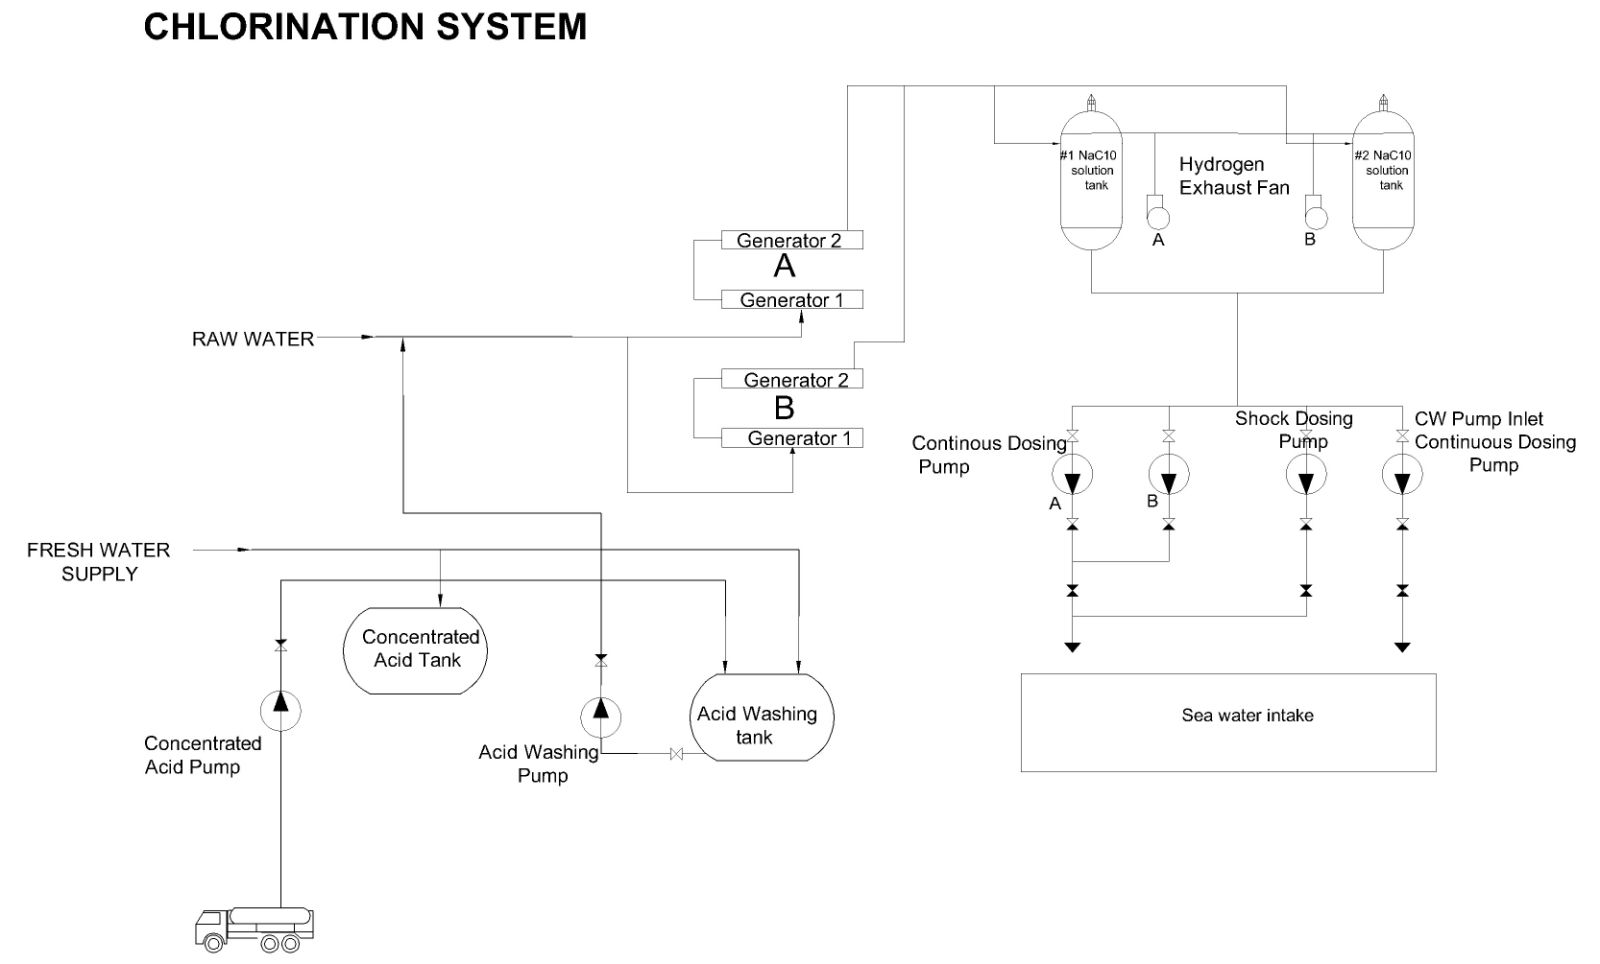
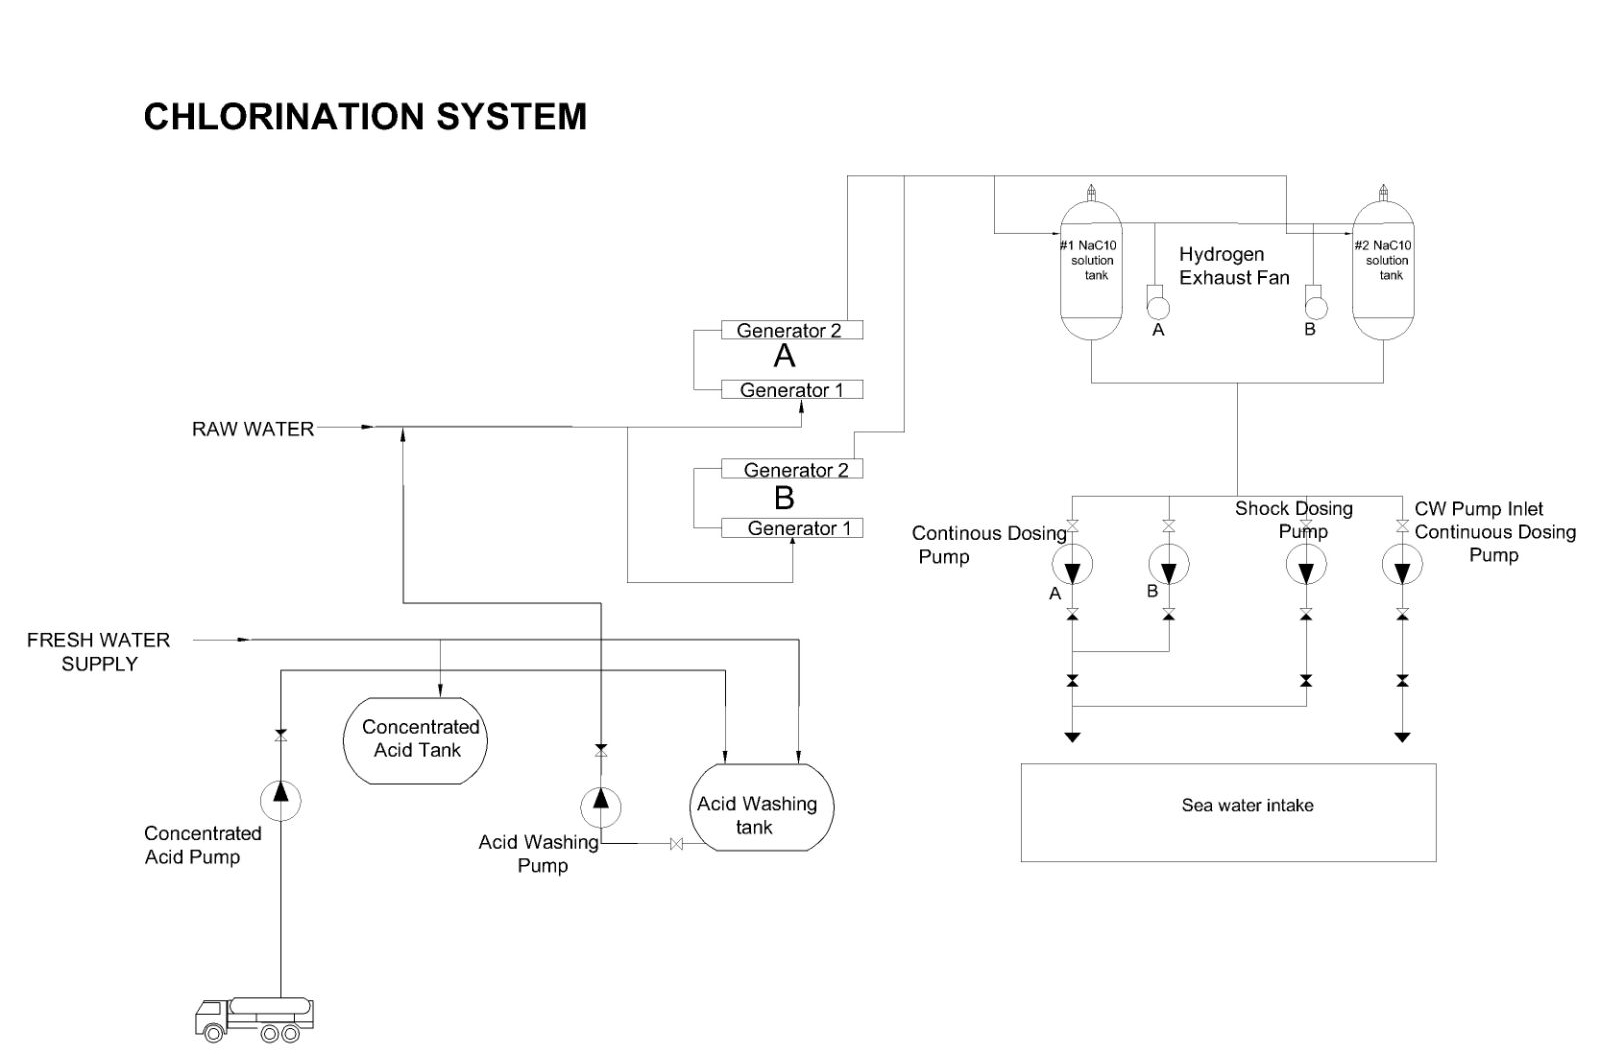
put text on chlorination and switchyard

diff --git a/javascript/config.js b/javascript/config.js
@@ -85,22 +85,22 @@ const positionMaps = {
     "SA Preheaeter": { x: 700, y: 407 },
     "PA Preheater": { x: 700, y: 453 },
     "Cyclone Separator A": { x: 523, y: 200 },
-    "Cyclone Separator B": { x: 523 , y: 230 },
-    "Daily Limestone": { x: 591 , y: 310 },
-    "Recycle Fan A": { x: 523 , y: 485 },
-    "Recycle Fan B": { x: 523 , y: 553 },
-    "Burner": { x: 460 , y: 520 },
-    "Circulating Fluidized Bed Boiler": { x: 400 , y: 350 },
-    "Coal Bunker": { x: 167 , y: 190 },
-    "Coal Feeder A": { x: 77 , y: 237 },
-    "Coal Feeder B": { x: 167 , y: 237 },
-    "Coal Feeder C": { x: 257 , y: 237 },
-    "Biomass Bunker": { x: 140 , y: 350 },
-    "Biomass Feeder A": { x: 85 , y: 400 },
-    "Biomass Feeder B": { x: 185 , y: 400 },
-    "LFO Tank": { x: 62 , y: 580 },
-    "LFO Pump A": { x: 210 , y: 520 },
-    "LFO Pump B": { x: 210 , y: 582 },
+    "Cyclone Separator B": { x: 523, y: 230 },
+    "Daily Limestone": { x: 591, y: 310 },
+    "Recycle Fan A": { x: 523, y: 485 },
+    "Recycle Fan B": { x: 523, y: 553 },
+    "Burner": { x: 460, y: 520 },
+    "Circulating Fluidized Bed Boiler": { x: 400, y: 350 },
+    "Coal Bunker": { x: 167, y: 190 },
+    "Coal Feeder A": { x: 77, y: 237 },
+    "Coal Feeder B": { x: 167, y: 237 },
+    "Coal Feeder C": { x: 257, y: 237 },
+    "Biomass Bunker": { x: 140, y: 350 },
+    "Biomass Feeder A": { x: 85, y: 400 },
+    "Biomass Feeder B": { x: 185, y: 400 },
+    "LFO Tank": { x: 62, y: 580 },
+    "LFO Pump A": { x: 210, y: 520 },
+    "LFO Pump B": { x: 210, y: 582 },
   },
   wts: {
     "Clarifier": { x: 150, y: 135 },
@@ -164,53 +164,53 @@ const positionMaps = {
   },
   sccws: {
     "Condenser": { x: 488, y: 90 },
-    "Rubber Ball Distributor": { x:547, y: 181 },
-    "Expansion Tank": { x:780, y: 175 },
-    "Secondary Filter A": { x:205, y: 305 },
-    "Secondary Filter B": { x:310, y: 305 },
-    "Heat Exchanger A": { x:430, y: 307 },
-    "Heat Exchanger B": { x:536, y: 307 },
-    "Close Cooling Water Pump A": { x:620, y: 307 },
-    "Close Cooling Water Pump B": { x:780, y: 307 },
-    "Circulating Water Pump A": { x:210, y: 440 },
-    "Circulating Water Pump B": { x:286, y: 440 },
-    "Circulating Water Pump C": { x:365, y: 440 },
-    "Cooling Pump A": { x:452, y: 397 },
-    "Cooling Pump B": { x:522, y: 397 },
-    "Cooling Pond": { x:735, y: 490 },
-    "Seawater Intake Pond": { x:235, y: 485 },
-    "Rotating Screen A": { x:270, y: 580 },
-    "Rotating Screen B": { x:465, y: 580 },
-    "Intake Cone": { x:365, y: 715 },
-    "Outfall Duct Valve": { x:765, y: 705 },
+    "Rubber Ball Distributor": { x: 547, y: 181 },
+    "Expansion Tank": { x: 780, y: 175 },
+    "Secondary Filter A": { x: 205, y: 305 },
+    "Secondary Filter B": { x: 310, y: 305 },
+    "Heat Exchanger A": { x: 430, y: 307 },
+    "Heat Exchanger B": { x: 536, y: 307 },
+    "Close Cooling Water Pump A": { x: 620, y: 307 },
+    "Close Cooling Water Pump B": { x: 780, y: 307 },
+    "Circulating Water Pump A": { x: 210, y: 440 },
+    "Circulating Water Pump B": { x: 286, y: 440 },
+    "Circulating Water Pump C": { x: 365, y: 440 },
+    "Cooling Pump A": { x: 452, y: 397 },
+    "Cooling Pump B": { x: 522, y: 397 },
+    "Cooling Pond": { x: 735, y: 490 },
+    "Seawater Intake Pond": { x: 235, y: 485 },
+    "Rotating Screen A": { x: 270, y: 580 },
+    "Rotating Screen B": { x: 465, y: 580 },
+    "Intake Cone": { x: 365, y: 715 },
+    "Outfall Duct Valve": { x: 765, y: 705 },
   },
   cbhs: {
     "Underground Hopper A": { x: 170, y: 125 },
-    "Underground Hopper B": { x:250, y: 125 },
-    "Electromagnetic Iron Separator 3A": { x:285, y: 192 },
-    "Electromagnetic Iron Separator 3B": { x:384, y: 192 },
-    "Metal Detector A": { x:415, y: 145 },
-    "Metal Detector B": { x:451, y: 145 },
-    "Belt Conveyor 1A": { x:560, y: 213 },
-    "Belt Conveyor 1B": { x:560, y: 247 },
-    "Bag Dust Collector 1": { x:225, y: 323 },
-    "Bag Dust Collector 2": { x:363, y: 287 },
-    "Dust Collector 3": { x:225, y: 417 },
-    "Dust Collector 4": { x:363, y: 380 },
-    "Vibrating Coal Screen A": { x:470, y: 333 },
-    "Vibrating Coal Screen B": { x:530, y: 333 },
-    "Coal Crusher A": { x:455, y: 440 },
-    "Coal Crusher B": { x:565, y: 440 },
-    "Belt Conveyor 2A": { x:160, y: 465 },
-    "Belt Conveyor 2B": { x:160, y: 498 },
-    "Belt Conveyor 3A": { x:160, y: 543 },
-    "Belt Conveyor 3B": { x:160, y: 577 },
-    "Biomass Shredder": { x:1000, y: 300 },
-    "Belt Conveyor 1C": { x:670, y: 368 },
-    "Belt Conveyor 2C": { x:670, y: 450 },
-    "Belt Conveyor 3C": { x:670, y: 514 },
-    "Belt Conveyor 4C": { x:670, y: 567 },
-    "Belt Conveyor 4C": { x:985, y: 630 },
+    "Underground Hopper B": { x: 250, y: 125 },
+    "Electromagnetic Iron Separator 3A": { x: 285, y: 192 },
+    "Electromagnetic Iron Separator 3B": { x: 384, y: 192 },
+    "Metal Detector A": { x: 415, y: 145 },
+    "Metal Detector B": { x: 451, y: 145 },
+    "Belt Conveyor 1A": { x: 560, y: 213 },
+    "Belt Conveyor 1B": { x: 560, y: 247 },
+    "Bag Dust Collector 1": { x: 225, y: 323 },
+    "Bag Dust Collector 2": { x: 363, y: 287 },
+    "Dust Collector 3": { x: 225, y: 417 },
+    "Dust Collector 4": { x: 363, y: 380 },
+    "Vibrating Coal Screen A": { x: 470, y: 333 },
+    "Vibrating Coal Screen B": { x: 530, y: 333 },
+    "Coal Crusher A": { x: 455, y: 440 },
+    "Coal Crusher B": { x: 565, y: 440 },
+    "Belt Conveyor 2A": { x: 160, y: 465 },
+    "Belt Conveyor 2B": { x: 160, y: 498 },
+    "Belt Conveyor 3A": { x: 160, y: 543 },
+    "Belt Conveyor 3B": { x: 160, y: 577 },
+    "Biomass Shredder": { x: 1000, y: 300 },
+    "Belt Conveyor 1C": { x: 670, y: 368 },
+    "Belt Conveyor 2C": { x: 670, y: 450 },
+    "Belt Conveyor 3C": { x: 670, y: 514 },
+    "Belt Conveyor 4C": { x: 670, y: 567 },
+    "Belt Conveyor 4C": { x: 985, y: 630 },
   },
   cas: {
     "Screw Air Compressor A": { x: 145, y: 230 },
@@ -240,12 +240,12 @@ const positionMaps = {
     "Heat and Smoke Detectors": { x: 810, y: 220 },
     "Horn Strobes": { x: 895, y: 300 },
     "FM200 Interface": { x: 814, y: 347 },
-    "FDAS": { x: 597 , y: 525 },
-    "Smoke Detector": { x: 728 , y: 454 },
-    "PA System ": { x: 815 , y: 527 },
-    "Horn ": { x: 890 , y: 505 },
-    "Sounder ": { x: 995 , y: 473 },
-    "Manual Pull Station ": { x: 995 , y: 540 },
+    "FDAS": { x: 597, y: 525 },
+    "Smoke Detector": { x: 728, y: 454 },
+    "PA System ": { x: 815, y: 527 },
+    "Horn ": { x: 890, y: 505 },
+    "Sounder ": { x: 995, y: 473 },
+    "Manual Pull Station ": { x: 995, y: 540 },
   },
   tls: {
     "Run Down Tank": { x: 600, y: 110 },
@@ -265,20 +265,20 @@ const positionMaps = {
     "Mobile Oil Purification Device": { x: 788, y: 560 },
   },
   cs: {
-    "NaCl Solution Tank A": { x: 790, y: 160 },
-    "NaCl Solution Tank B": { x: 1008, y: 160 },
-    "Hydrogen Exhaust Fan A": { x: 842, y: 225 },
-    "Hydrogen Exhaust Fan B": { x: 954, y: 225 },
-    "Sodium Hypochlorite Generator A": { x: 515, y: 229 },
-    "Sodium Hypochlorite Generator B": { x: 515, y: 331 },
-    "Seawater Intake Continuous Dosing Pump A": { x: 755, y: 420 },
-    "Seawater Intake Continuous Dosing Pump B": { x: 825, y: 420 },
-    "Shocking Dosing Pump": { x: 930, y: 405 },
-    "CW Pump Inlet Continous Dosing Pump": { x: 1000, y: 405 },
-    "Acid Washing Tank": { x: 545, y: 560 },
-    "Acid Washing Pump": { x: 427, y: 593 },
-    "Concentrated Acid Tank": { x: 290, y: 510 },
-    "Concentrated Acid Pump": { x: 160, y: 555 },
+    "NaCl Solution Tank A": { x: 702, y: 180 },
+    "NaCl Solution Tank B": { x: 985, y: 180 },
+    "Hydrogen Exhaust Fan A": { x: 788, y: 233 },
+    "Hydrogen Exhaust Fan B": { x: 894, y: 233 },
+    "Sodium Hypochlorite Generator A": { x: 500, y: 235 },
+    "Sodium Hypochlorite Generator B": { x: 500, y: 331 },
+    "Seawater Intake Continuous Dosing Pump A": { x: 708, y: 420 },
+    "Seawater Intake Continuous Dosing Pump B": { x: 775, y: 420 },
+    "Shocking Dosing Pump": { x: 870, y: 405 },
+    "CW Pump Inlet Continous Dosing Pump": { x: 938, y: 405 },
+    "Acid Washing Tank": { x: 513, y: 595 },
+    "Acid Washing Pump": { x: 360, y: 550 },
+    "Concentrated Acid Tank": { x: 270, y: 550 },
+    "Concentrated Acid Pump": { x: 125, y: 545 },
   },
   electrical: {
     "51DL": { x: 100, y: 300 },
@@ -316,25 +316,25 @@ const positionMaps = {
     "Skid Loader": { x: 660, y: 690 },
   },
   switchyard: {
-    "Lightning Arrester DPTPP": { x: 193, y: 145 },
-    "Combined Instrument Transformer for Metering": { x: 308, y: 130 },
-    "Voltage Transformer DPTPP 1": { x: 442, y: 130 },
-    "Disconnect Switch With Earthing Switch DPTPP": { x: 562, y: 130 },
-    "Current Transformer DPTPP": { x: 664, y: 130 },
-    "Power Circuit Breaker DPTPP": { x: 740, y: 150 },
-    "Disconnect Switch DPTPP": { x: 857, y: 143 },
-    "Voltage Transformer DPTPP 2": { x: 980, y: 140 },
-    "Lightning Arrester Narra": { x: 897, y: 325 },
-    "Voltage Transformer, Capacitive Type": { x: 770, y: 312 },
-    "Disconnect Switch With Earthing Switch Narra": { x: 693, y: 312 },
-    "Current Transformer Narra": { x: 519, y: 312 },
-    "Power Circuit Breaker Narra": { x: 428, y: 335 },
-    "Disconnect Switch Narra": { x: 293, y: 332 },
-    "Lightning Arrester Brooke's Point": { x: 892, y: 505 },
-    "Voltage Transformer, Capacitive Type Brooke's Point": { x: 765, y: 490 },
-    "Disconnect Switch With Earthing Switch Brooke's Point": { x: 690, y: 500 },
-    "Current Transformer Brooke's Point": { x: 514, y: 490 },
-    "Power Circuit Breaker Brooke's Point": { x: 423, y: 515 },
-    "Disconnect Switch Brooke's Point": { x: 288, y: 515 },
+    "Lightning Arrester DPTPP": { x: 165, y: 140 },
+    "Combined Instrument Transformer for Metering": { x: 285, y: 105 },
+    "Voltage Transformer DPTPP 1": { x: 400, y: 115 },
+    "Disconnect Switch With Earthing Switch DPTPP": { x: 550, y: 115 },
+    "Current Transformer DPTPP": { x: 650, y: 110 },
+    "Power Circuit Breaker DPTPP": { x: 735, y: 130 },
+    "Disconnect Switch DPTPP": { x: 845, y: 133 },
+    "Voltage Transformer DPTPP 2": { x: 957, y: 115 },
+    "Lightning Arrester Narra": { x: 930, y: 335 },
+    "Voltage Transformer, Capacitive Type": { x: 765, y: 285 },
+    "Disconnect Switch With Earthing Switch Narra": { x: 630, y: 300 },
+    "Current Transformer Narra": { x: 490, y: 285 },
+    "Power Circuit Breaker Narra": { x: 390, y: 320 },
+    "Disconnect Switch Narra": { x: 270, y: 315 },
+    "Lightning Arrester Brooke's Point": { x: 930, y: 515 },
+    "Voltage Transformer, Capacitive Type Brooke's Point": { x: 765, y: 465 },
+    "Disconnect Switch With Earthing Switch Brooke's Point": { x: 620, y: 475 },
+    "Current Transformer Brooke's Point": { x: 490, y: 460 },
+    "Power Circuit Breaker Brooke's Point": { x: 390, y: 495 },
+    "Disconnect Switch Brooke's Point": { x: 270, y: 490 },
   },
 };
